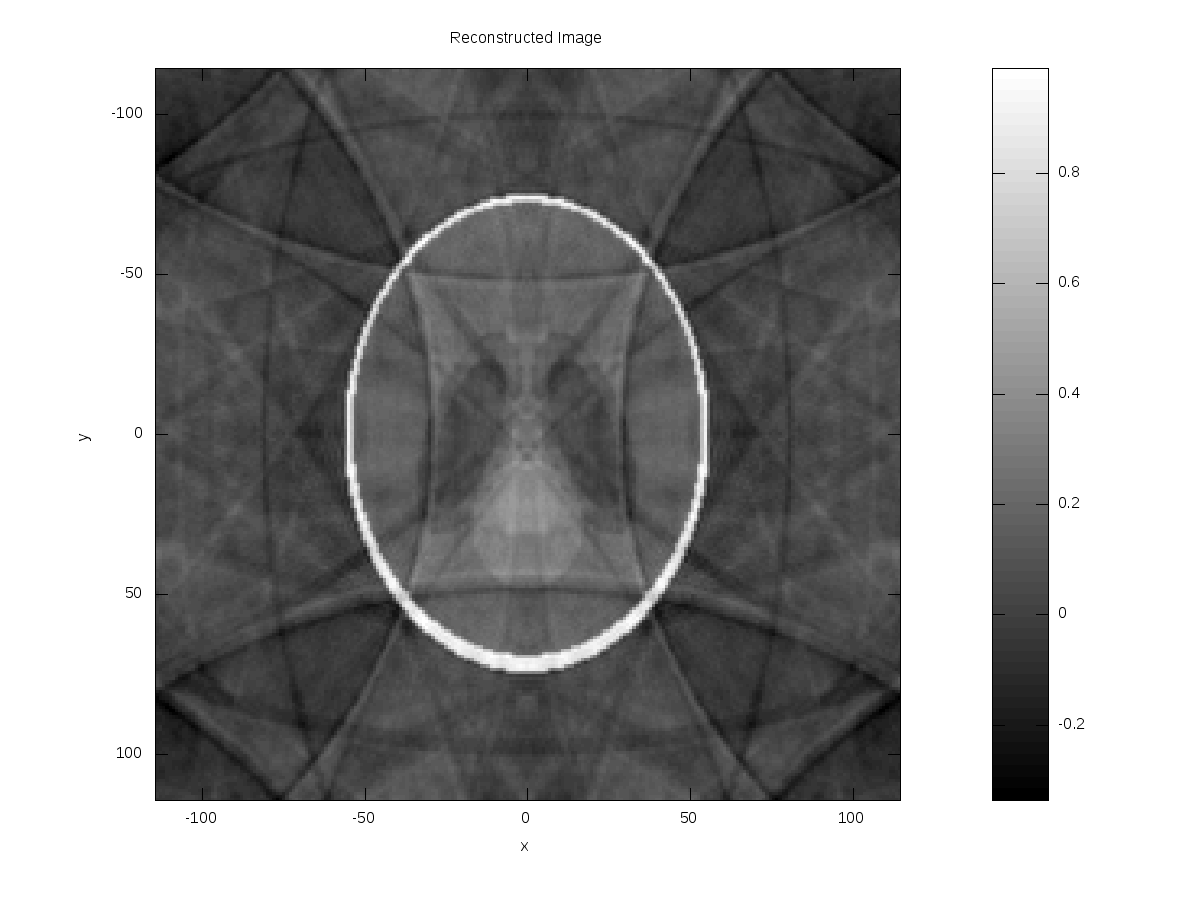
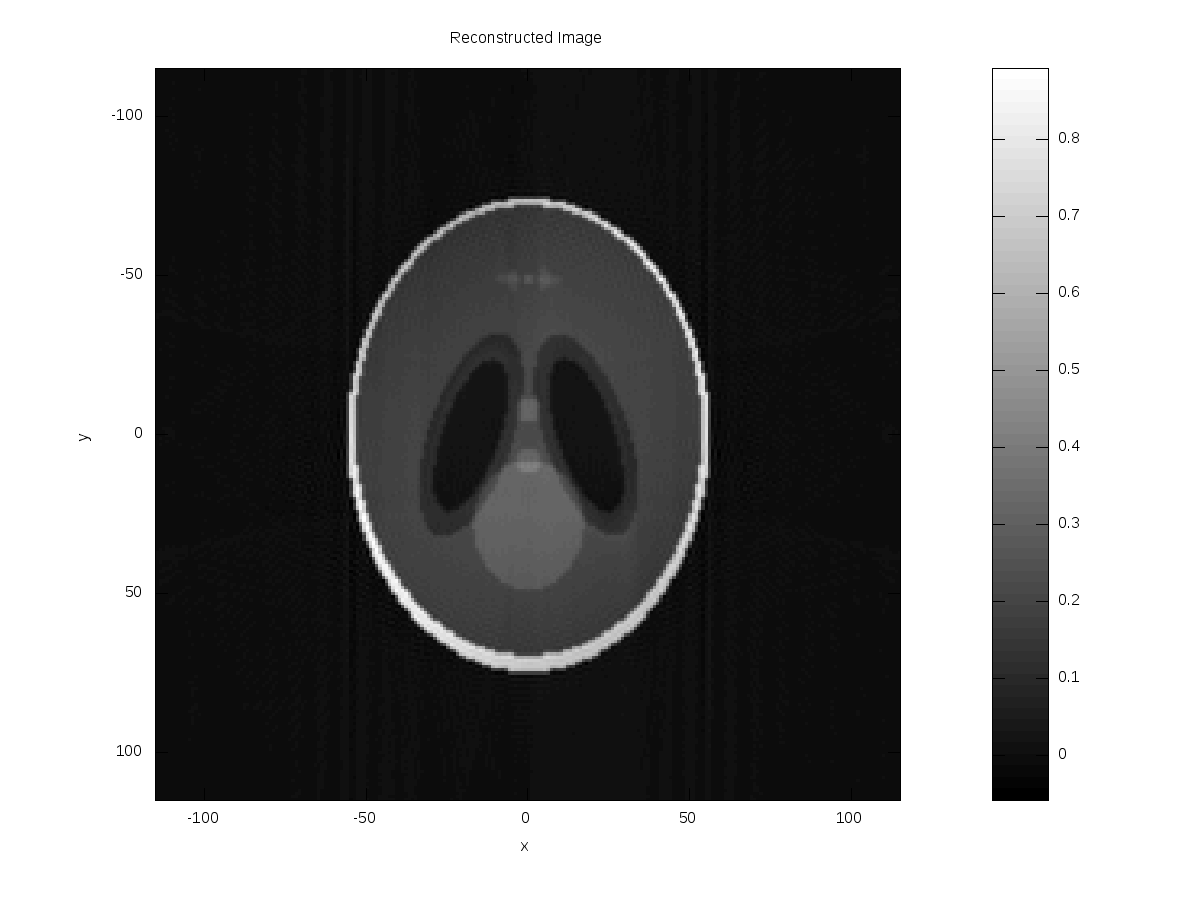
Disable auto expansion on radon scan range so that its impact can be investigated

diff --git a/polar_to_rect.m b/polar_to_rect.m
@@ -27,8 +27,9 @@ end
 
 %% Preparations
 % entend the range of Fourier Radon space so that value at theta=0 and theta =180 can be interpolated
-Extended_Fourier_Radon = horzcat( Fourier_Radon, Fourier_Radon(:,size_theta) );
-theta = [theta 180];
+% Disabled so that the effect of scan range could be investigated
+%Extended_Fourier_Radon = horzcat( Fourier_Radon, Fourier_Radon(:,size_theta) );
+%theta = [theta 180];
 
 % Label each elements in the matrix Fourier_Radon with the corresponding theta and omega_s:
 [THETA OMEGA_S] = meshgrid(theta,omega_s);
@@ -50,7 +51,7 @@ THETA_I = abs(THETA_I) *180 / pi;
 
 %% Apply interpolation
 % disable extrapolation: everything outside the defined space is set to zero.
-Fourier_2D = interp2(THETA,OMEGA_S,Extended_Fourier_Radon,...
+Fourier_2D = interp2(THETA,OMEGA_S,Fourier_Radon,...
 	THETA_I,OMEGA_SI,interp_m,0);
 axis_omega_xy = omega_x;
 
